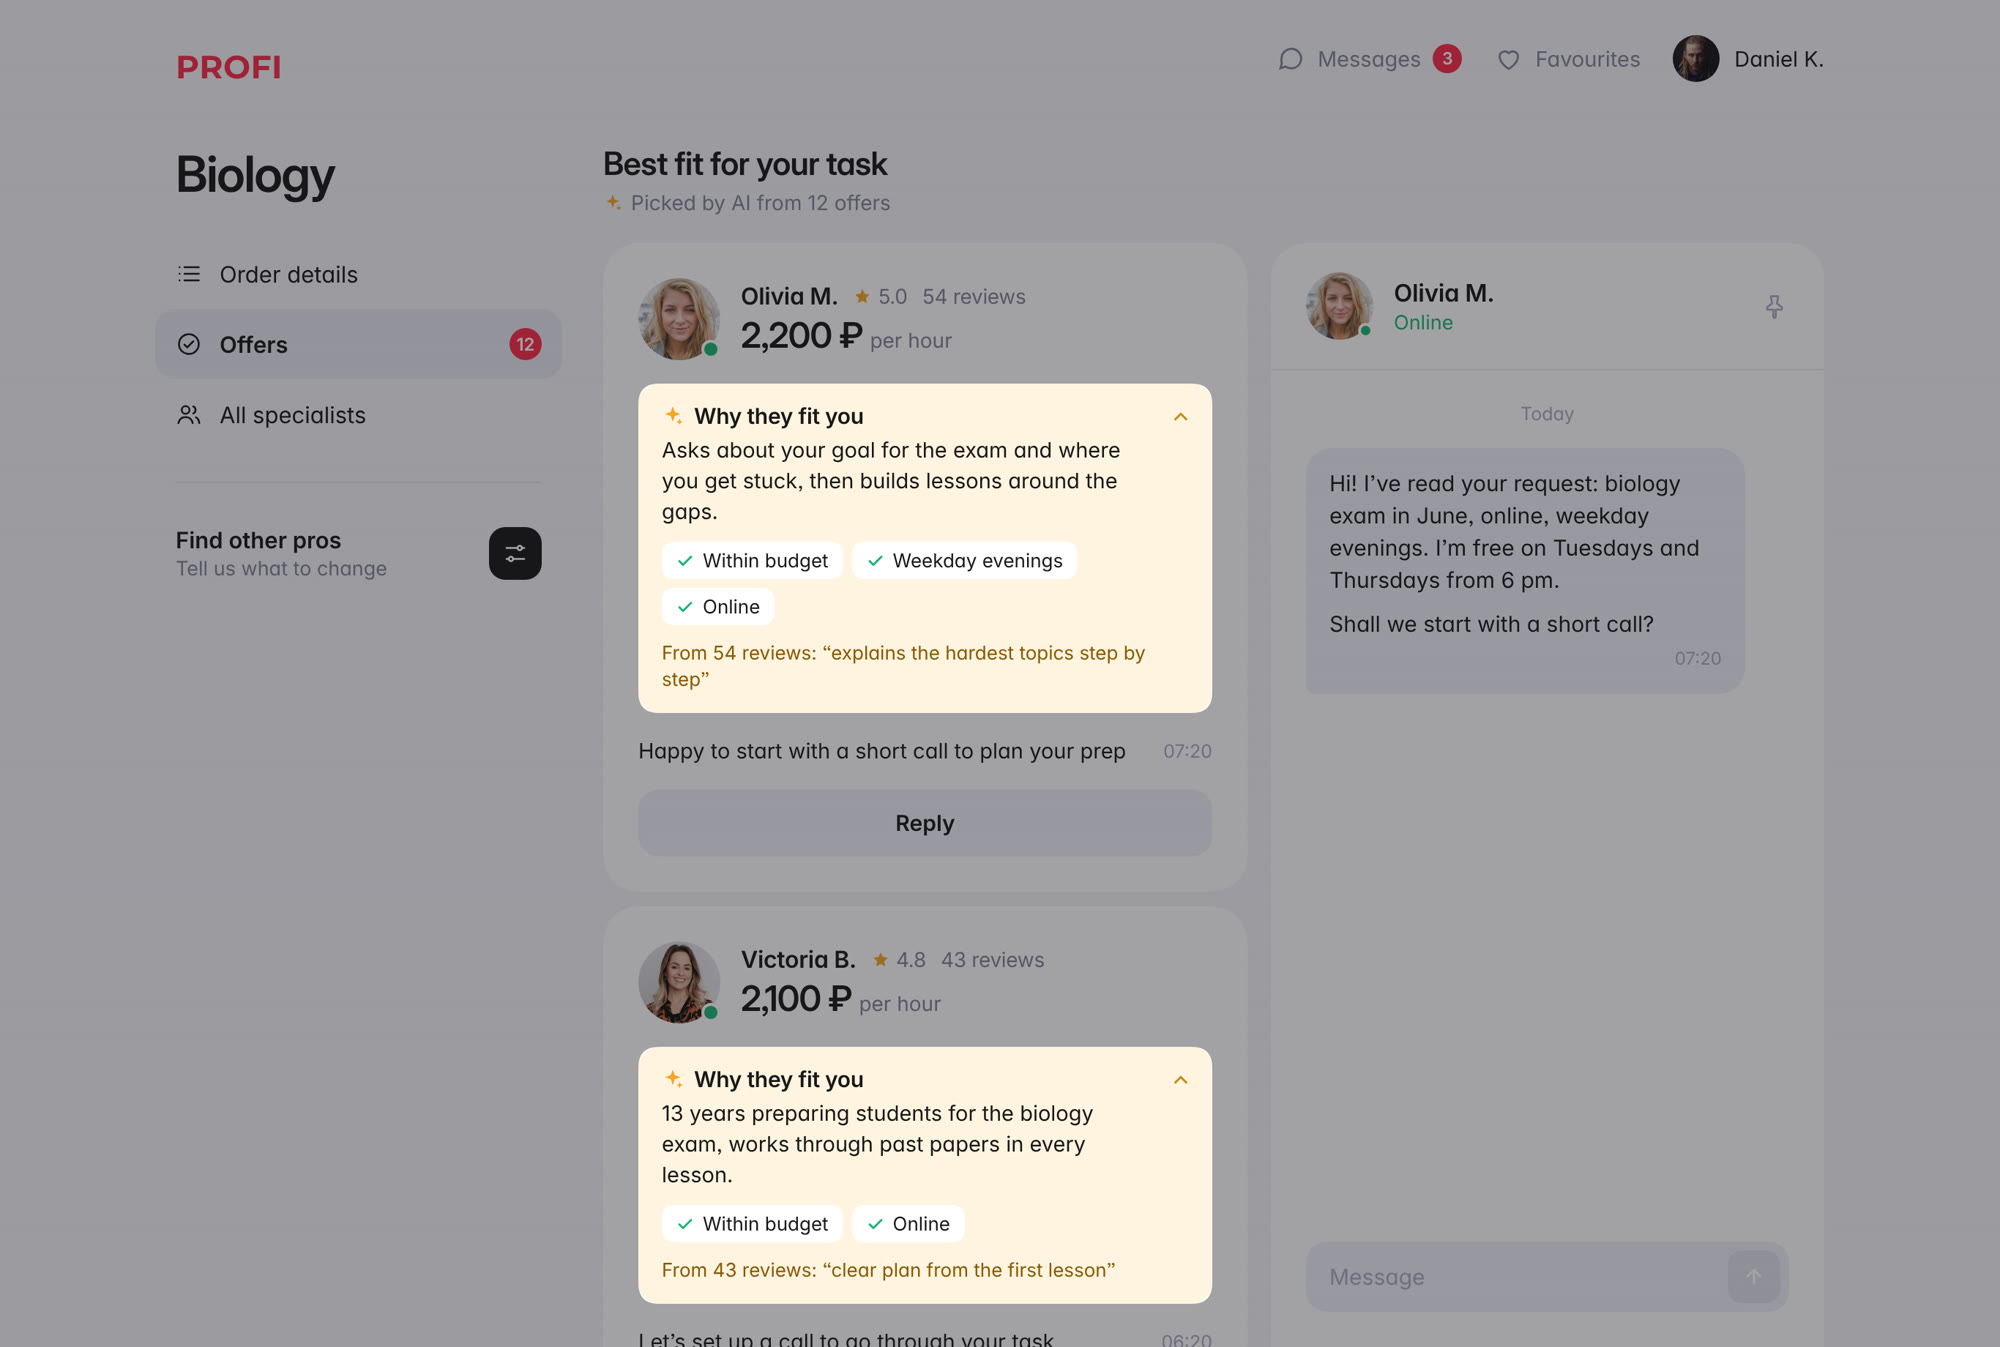
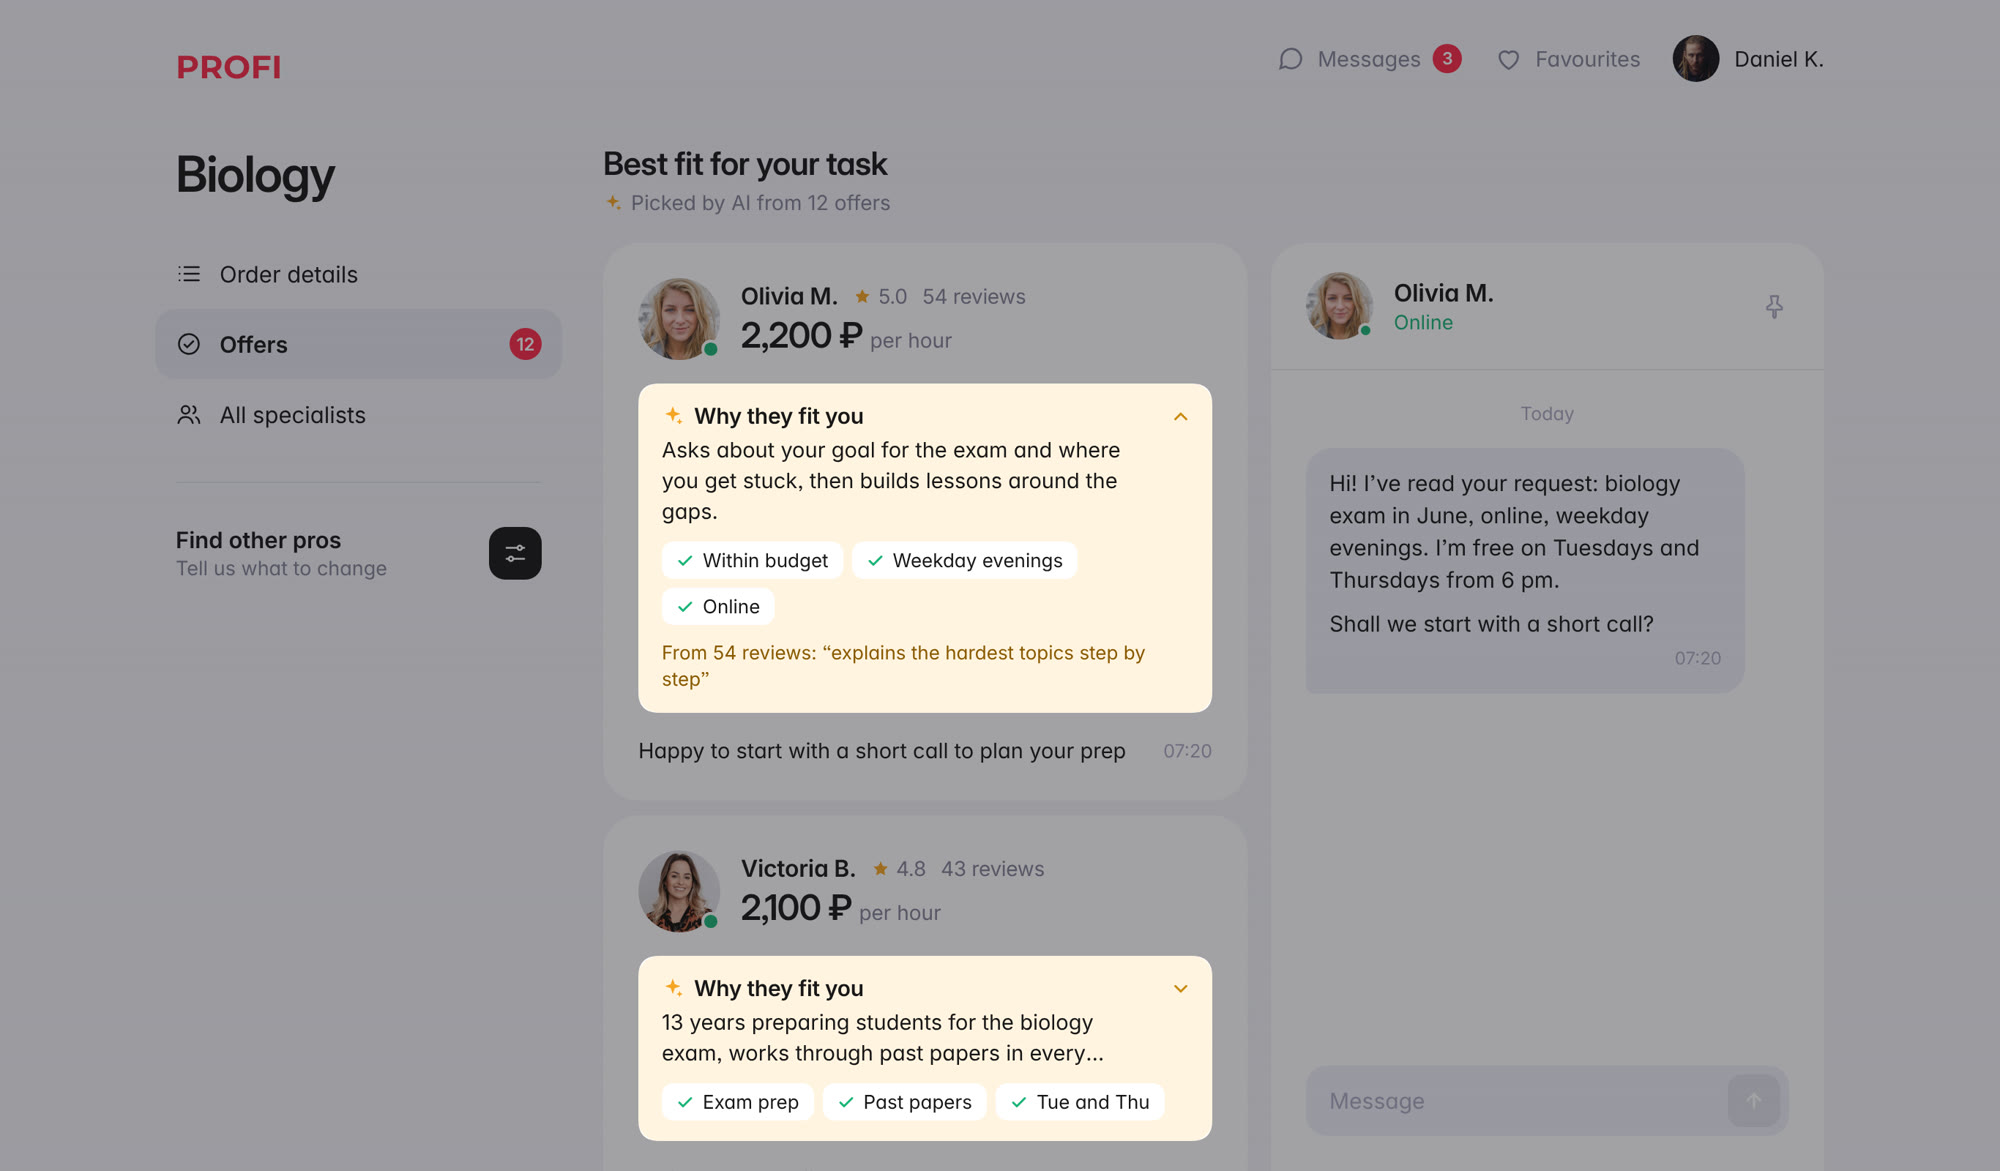
Profi case: four key results, distinct tags on second pick, original frame size
Claude-Session: https://claude.ai/code/session_014rJndXE327eq2XizYZCGT6

diff --git a/_src/remotion/src/ui/Desktop.tsx b/_src/remotion/src/ui/Desktop.tsx
@@ -31,7 +31,7 @@ export const L = {
 };
 L.whyCenter.y = L.cardsY + 24 + 56 + 16 + 22;
 
-const Card: React.FC<{ t: Tutor; open: number; style?: React.CSSProperties }> = ({ t, open, style }) => (
+const Card: React.FC<{ t: Tutor; open: number; tags?: boolean; style?: React.CSSProperties }> = ({ t, open, tags, style }) => (
   <div style={{ background: "#fff", borderRadius: 24, padding: 24, marginBottom: 10, ...style }}>
     <div style={{ display: "flex", gap: 14, alignItems: "center" }}>
       <Avatar img={t.img} size={56} online />
@@ -50,13 +50,14 @@ const Card: React.FC<{ t: Tutor; open: number; style?: React.CSSProperties }> = 
       </div>
     </div>
     <div style={{ marginTop: 16 }}>
-      <Why t={t} open={open} />
+      <Why t={t} open={open} tags={tags} />
     </div>
     <div style={{ display: "flex", justifyContent: "space-between", gap: 12, marginTop: 16, fontSize: 14.5, lineHeight: "20px" }}>
       <span>{t.msg}</span>
       <span style={{ fontSize: 12.5, color: C.hint }}>{t.time}</span>
     </div>
-    <div style={{ marginTop: 16, height: 46, borderRadius: 14, background: C.ctl, display: "flex", alignItems: "center", justifyContent: "center", fontSize: 15, fontWeight: 600 }}>Reply</div>
+    {tags === undefined || open > 0.5 && !tags ? null : null}
+    {tags !== undefined ? null : <div style={{ marginTop: 16, height: 46, borderRadius: 14, background: C.ctl, display: "flex", alignItems: "center", justifyContent: "center", fontSize: 15, fontWeight: 600 }}>Reply</div>}
   </div>
 );
 
@@ -233,7 +234,7 @@ export const Desktop: React.FC<{ s: DesktopState; height: number; children?: Rea
         ) : (
           set.map((t, i) => {
             const k = Math.max(0, Math.min(1, s.reveal - i));
-            return <Card key={t.id} t={t} open={i === 0 || s.openAll ? s.open : 0} style={{ opacity: k, translate: `0 ${(1 - k) * 18}px` }} />;
+            return <Card key={t.id} t={t} open={i === 0 ? s.open : 0} tags={s.openAll ? i > 0 : undefined} style={{ opacity: k, translate: `0 ${(1 - k) * 18}px` }} />;
           })
         )}
       </div>

diff --git a/_src/remotion/src/ui/Parts.tsx b/_src/remotion/src/ui/Parts.tsx
@@ -24,7 +24,7 @@ export const Avatar: React.FC<{ img: string; size: number; online?: boolean }> =
 );
 
 /** AI explanation block. open: 0..1 (animated height of details) */
-export const Why: React.FC<{ t: Tutor; open: number; compact?: boolean }> = ({ t, open, compact }) => {
+export const Why: React.FC<{ t: Tutor; open: number; compact?: boolean; tags?: boolean }> = ({ t, open, compact, tags }) => {
   const fs = compact ? 13 : 14.5;
   const lh = compact ? 18 : 21;
   const extra = interpolate(open, [0, 1], [0, compact ? 70 : 150]);
@@ -35,6 +35,16 @@ export const Why: React.FC<{ t: Tutor; open: number; compact?: boolean }> = ({ t
         Why they fit you
       </div>
       <div style={{ fontSize: fs, lineHeight: `${lh}px`, marginTop: 4, paddingRight: 22, maxHeight: lh * (2 + open), overflow: "hidden", ...(open < 0.02 ? { display: "-webkit-box", WebkitLineClamp: 2, WebkitBoxOrient: "vertical" as const } : {}) }}>{t.why}</div>
+      {tags && open < 0.02 ? (
+        <div style={{ display: "flex", flexWrap: "wrap", gap: 6, marginTop: 10 }}>
+          {t.crit.map((c) => (
+            <span key={c} style={{ background: "#fff", borderRadius: 8, padding: compact ? "3px 8px" : "5px 10px", fontSize: compact ? 11.5 : 13, display: "inline-flex", alignItems: "center", gap: 6 }}>
+              <Check s={compact ? 10 : 12} />
+              {c}
+            </span>
+          ))}
+        </div>
+      ) : null}
       <div style={{ maxHeight: extra, overflow: "hidden" }}>
         <div style={{ display: "flex", flexWrap: "wrap", gap: 6, marginTop: 10, opacity: open }}>
           {t.crit.map((c) => (

diff --git a/_src/remotion/src/theme.ts b/_src/remotion/src/theme.ts
@@ -39,7 +39,7 @@ export type Tutor = {
 
 export const SET1: Tutor[] = [
   { id: "a", name: "Olivia M.", img: "olivia", rating: "5.0", reviews: 54, price: "2,200", why: "Asks about your goal for the exam and where you get stuck, then builds lessons around the gaps.", crit: ["Within budget", "Weekday evenings", "Online"], src: "From 54 reviews: “explains the hardest topics step by step”", msg: "Happy to start with a short call to plan your prep", time: "07:20" },
-  { id: "b", name: "Victoria B.", img: "victoria", rating: "4.8", reviews: 43, price: "2,100", why: "13 years preparing students for the biology exam, works through past papers in every lesson.", crit: ["Within budget", "Online"], src: "From 43 reviews: “clear plan from the first lesson”", msg: "Let’s set up a call to go through your task", time: "06:20" },
+  { id: "b", name: "Victoria B.", img: "victoria", rating: "4.8", reviews: 43, price: "2,100", why: "13 years preparing students for the biology exam, works through past papers in every lesson.", crit: ["Exam prep", "Past papers", "Tue and Thu"], src: "From 43 reviews: “clear plan from the first lesson”", msg: "Let’s set up a call to go through your task", time: "06:20" },
   { id: "c", name: "Anna F.", img: "anna", rating: "4.9", reviews: 133, price: "2,400", why: "Finds out what is hard for you before the first lesson and doesn’t push extra hours.", crit: ["Within budget", "Weekday evenings"], src: "From 133 reviews: “patient and well prepared”", msg: "Ready to meet and talk through your request", time: "05:20" },
 ];
 

diff --git a/_src/remotion/src/Stages.tsx b/_src/remotion/src/Stages.tsx
@@ -280,8 +280,8 @@ const desk3 = (
 );
 
 const desk4 = (
-  <div style={{ position: "relative", width: 1366, height: 920 }}>
-    <Desktop s={{ set: 1, open: 1, reveal: 3, modal: 0, chip: 0, loading: null, typing: 1, msg: 1, shimmer: 0, openAll: true }} height={920} />
+  <div style={{ position: "relative", width: 1366, height: 800 }}>
+    <Desktop s={{ set: 1, open: 1, reveal: 3, modal: 0, chip: 0, loading: null, typing: 1, msg: 1, shimmer: 0, openAll: true }} height={800} />
     <Spot keys={["why"]} />
   </div>
 );
@@ -406,7 +406,7 @@ const mob3 = (
 
 const T4: Tutor = SET1[0];
 const mob4 = (
-  <Phone h={982} spot={["why"]} bg={C.bg}>
+  <Phone spot={["why"]} bg={C.bg}>
     <div style={{ padding: "14px 12px" }}>
       <div style={{ padding: "4px 8px 12px" }}><Head t="Best fit for your task" s="Picked by AI from 12 offers" ai /></div>
       {SET1.map((t, i) => (
@@ -418,7 +418,7 @@ const mob4 = (
               <div style={{ fontFamily: "InterD", fontSize: 21, fontWeight: 600, letterSpacing: "-0.02em" }}>{t.price} ₽ <span style={{ fontFamily: "Inter", fontSize: 13, fontWeight: 400, color: C.ink2 }}>per hour</span></div>
             </div>
           </div>
-          <div style={{ marginTop: 12 }}><Why t={t} open={1} compact /></div>
+          <div style={{ marginTop: 12 }}><Why t={t} open={i === 0 ? 1 : 0} tags={i > 0} compact /></div>
           <div style={{ fontSize: 14, marginTop: 12 }}>{t.msg}</div>
         </div>
       ))}

diff --git a/case-profi.html b/case-profi.html
@@ -436,7 +436,7 @@ html.vt .item.gl-on .asset video{opacity:1!important}
   </section>
   <section class="panel">
     <p class="lbl gray">Results</p>
-    <div class="nums four"><div><b>+23.5%</b><p class="lbl">Client-to-contact<br>conversion, final design</p></div><div><b>+21%</b><p class="lbl">First shortlist,<br>iteration I</p></div><div><b>+18%</b><p class="lbl">LLM shortlist,<br>iteration III</p></div><div><b>4</b><p class="lbl">Iterations, each A/B<br>tested vs original</p></div><div><b>9</b><p class="lbl">In-depth<br>interviews</p></div><div><b>2</b><p class="lbl">Synthetic respondents<br>built on AI</p></div><div><b>5+</b><p class="lbl">A/B tests<br>in 6 months</p></div><div><b>3</b><p class="lbl">Platforms: web,<br>mobile web, and iOS</p></div></div>
+    <div class="nums four"><div><b>+23.5%</b><p class="lbl">Client-to-contact<br>conversion, final design</p></div><div><b>4</b><p class="lbl">Iterations, each A/B<br>tested vs original</p></div><div><b>9</b><p class="lbl">In-depth<br>interviews</p></div><div><b>5+</b><p class="lbl">A/B tests<br>in 6 months</p></div></div>
   </section>
   <section class="study">
     <p class="lbl gray">Case study</p>

diff --git a/_src/remotion/src/Root.tsx b/_src/remotion/src/Root.tsx
@@ -33,8 +33,8 @@ export const RemotionRoot: React.FC = () => {
       <Still id="S2m" component={StageStill} width={393} height={852} defaultProps={{ stage: 2, kind: "m" as const }} />
       <Still id="S3d" component={StageStill} width={1366} height={800} defaultProps={{ stage: 3, kind: "d" as const }} />
       <Still id="S3m" component={StageStill} width={393} height={852} defaultProps={{ stage: 3, kind: "m" as const }} />
-      <Still id="S4d" component={StageStill} width={1366} height={920} defaultProps={{ stage: 4, kind: "d" as const }} />
-      <Still id="S4m" component={StageStill} width={393} height={982} defaultProps={{ stage: 4, kind: "m" as const }} />
+      <Still id="S4d" component={StageStill} width={1366} height={800} defaultProps={{ stage: 4, kind: "d" as const }} />
+      <Still id="S4m" component={StageStill} width={393} height={852} defaultProps={{ stage: 4, kind: "m" as const }} />
       <Composition id="PhoneStill" component={PhoneStill} durationInFrames={1} fps={FPS} width={824} height={1460} />
     </>
   );

diff --git a/_src/build.py b/_src/build.py
@@ -1283,10 +1283,8 @@ def profi_content():
                       "Tutoring is one of its biggest verticals. That’s where I worked, in the growth team."))) +
       role(body(ps("Senior Product Designer in the tutoring vertical. I owned the AI matching experience end to end on web, mobile web, and iOS, together with a product manager, analysts and engineers.",
                    "The work went from interviews and usability tests to A/B tests on the internal experiment platform, and prototypes I built in code with Claude and Claude Code."))) +
-      results(nums([("+23.5%", "Client-to-contact<br>conversion, final design", ""), ("+21%", "First shortlist,<br>iteration I", ""),
-                    ("+18%", "LLM shortlist,<br>iteration III", ""), ("4", "Iterations, each A/B<br>tested vs original", ""),
-                    ("9", "In-depth<br>interviews", ""), ("2", "Synthetic respondents<br>built on AI", ""),
-                    ("5+", "A/B tests<br>in 6 months", ""), ("3", "Platforms: web,<br>mobile web, and iOS", "")], "four")) +
+      results(nums([("+23.5%", "Client-to-contact<br>conversion, final design", ""), ("4", "Iterations, each A/B<br>tested vs original", ""),
+                    ("9", "In-depth<br>interviews", ""), ("5+", "A/B tests<br>in 6 months", "")], "four")) +
       study('<p class="state">Teaching an LLM to pick a tutor, and earning the client’s trust in that pick</p>' +
             body(ps("A client posts a request and gets a stream of offers, often more than they can read. Many read a few and never write to anyone. The gap between interest in a specialist and the first message was the biggest drop in the funnel.",
                     "The idea was to let the product do the first round of choosing: show the best few offers for this task, say why each one fits, and let the client ask for others in plain words. It took four stages to get there. Before the first one, we went and listened."))) +
